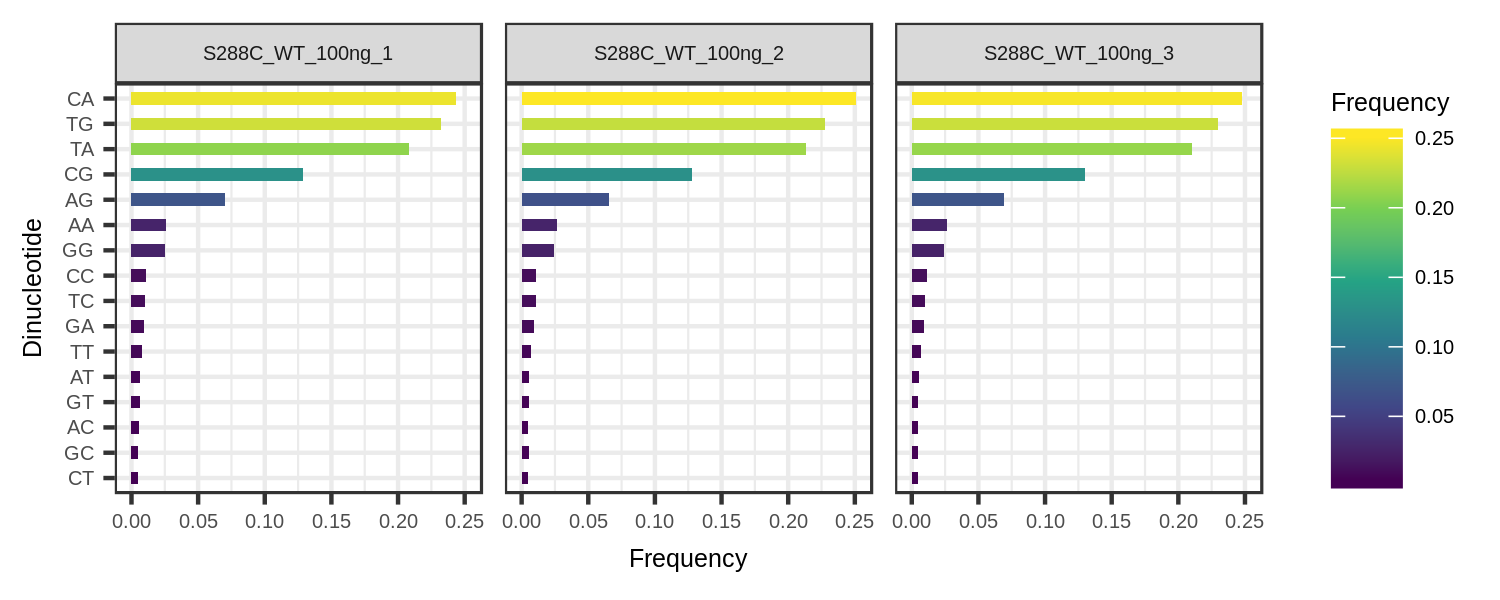
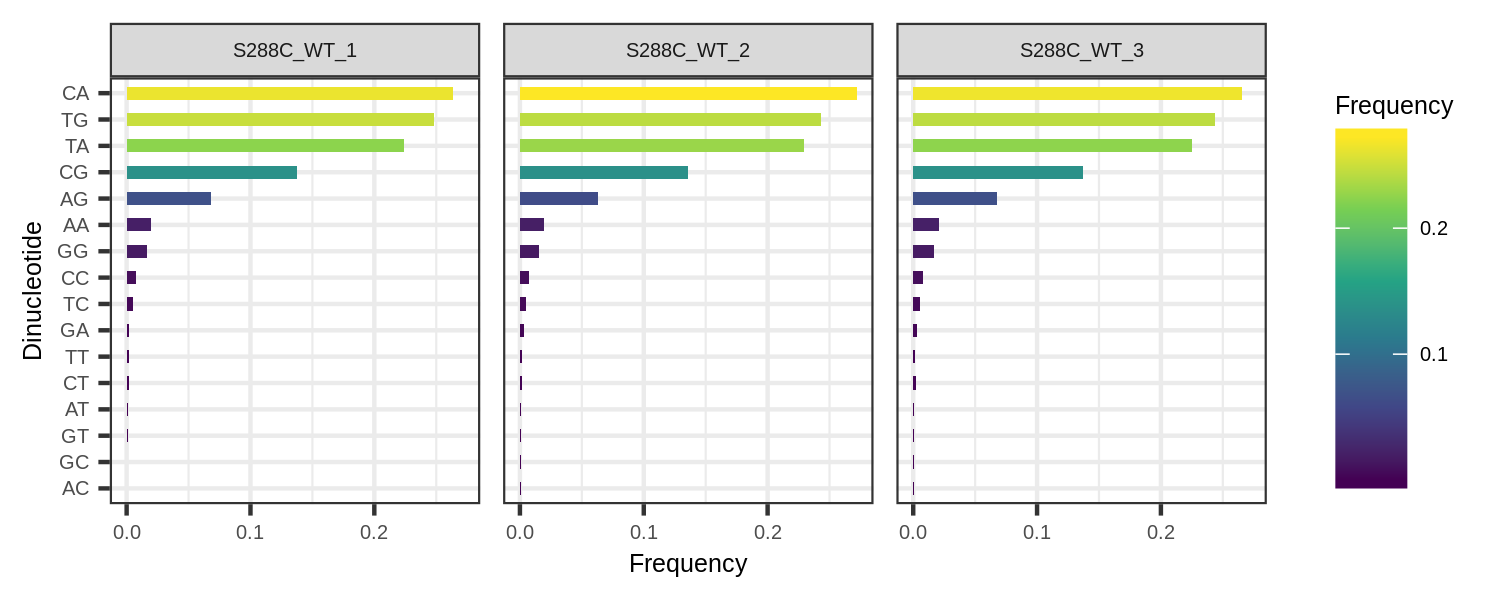
first version of gene track function

Changed region(s): [[0.0, 0.03, 0.8587, 0.96], [0.8893, 0.15, 0.9813, 0.81]]

diff --git a/github/TSS_ANALYSIS.md b/github/TSS_ANALYSIS.md
@@ -228,7 +228,7 @@ dev.off()
 
 ![tss_sequence_logo](../inst/images/tss_seq_logo.png)
 
-## Sequence Color Map
+### Sequence Color Map
 
 A sequence logo "averages" the bases when displaying data, but it can be useful for a more raw visualization.
 Sequence color maps will assign a color to each base, and then display the corresponding colors centered around TSSs.
@@ -239,7 +239,37 @@ The same genome assembly and retrieved sequences that were used to make the sequ
 p <- plot_sequence_colormap(seqs, ncol = 3) +
 	ggplot2::theme(text = element_text(size = 4), legend.key.size = unit(0.3, "cm"))
 
-ggsave("tss_seq_colormap.png", plot = p, device = "png", type = "cairo", height = 2, width = 4)
+ggsave("tss_seq_colormap.png", plot = p, device = "png", type = "cairo", height = 1.5, width = 3)
 ```
 
 ![tss_sequence_colormap](../inst/images/tss_seq_colormap.png)
+
+### Dinucleotide Frequency
+
+As previously discused, in most organisms there seems to be a strong pyrimidine-purine bias in the -1 and +1 positions respectively.
+A function to explore the -1/+1 dinucleotide frequencies is included to further explore this.
+
+```
+assembly <- system.file("extdata", "S288C_Assembly.fasta", package = "tsrexplorer")
+
+frequencies <- dinucleotide_frequencies(exp, genome_assembly = assembly, threshold = 3)
+
+p <- plot_dinucleotide_frequencies(frequencies, ncol = 3) +
+	ggplot2::theme(text = element_text(size = 6))
+
+ggsave("tss_dinucleotide_frequencies.png", plot = p, device = "png", type = "cairo", height = 2, width = 5)
+```
+
+![tss_dinucleotide_frequencies](../inst/images/tss_dinucleotide_frequencies.png)
+
+## Gene Tracks
+
+```
+annotation <- system.file("extdata", "S288C_Annotation.gtf", package = "tsrexplorer")
+
+png("gene_track.png", units = "in", res = 300, height = 3, width = 4, type = "cairo")
+gene_tracks(experiment, annotation, gene_name = "YAL012W", tsr_samples = NA)
+dev.off()
+```
+
+![gene_track](../inst/images/gene_track.png)
